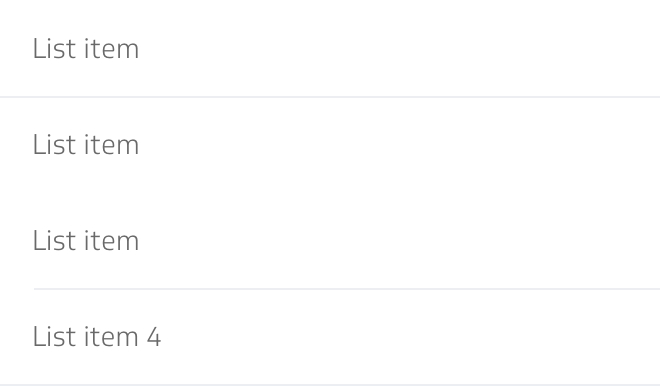
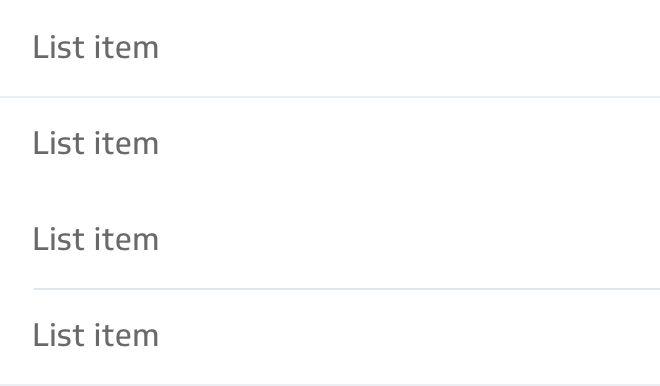
toolkit-v2 divider component created

diff --git a/src/assets/examples/index.ts b/src/assets/examples/index.ts
@@ -39,6 +39,7 @@ import {
   VizFileUploadModule
 } from 'libs';
 
+import { DividerOverviewComponent } from './divider-overview/divider-overview.component';
 import { DatepickerDateClassComponent } from './datepicker-date-class/datepicker-date-class.component';
 import {
   DatepickerCustomHeaderComponent,
@@ -296,7 +297,6 @@ import {
   LoginOktaComponent,
   LoginOktaData
 } from './login-okta/login-okta.component';
-import { DividerComponent, DividerData } from './divider/divider.component';
 import {
   IconographyComponent,
   IconographyData
@@ -626,6 +626,9 @@ import {
   MatSelectModule
 } from '@angular/material';
 export const ALL_EXAMPLE_ITEMS = {
+  'divider-overview': {
+    component: DividerOverviewComponent
+  },
   'datepicker-date-class': {
     component: DatepickerDateClassComponent
   },
@@ -965,10 +968,6 @@ export const ALL_EXAMPLE_ITEMS = {
     component: LoginOktaComponent,
     data: LoginOktaData
   },
-  divider: {
-    component: DividerComponent,
-    data: DividerData
-  },
   iconography: {
     component: IconographyComponent,
     data: IconographyData
@@ -1297,6 +1296,7 @@ export const ALL_EXAMPLE_ITEMS = {
 // console.log(Object.keys(VizModules).join(','));
 @NgModule({
   declarations: [
+    DividerOverviewComponent,
     ExampleHeader,
     DatepickerDateClassComponent,
     DatepickerCustomHeaderComponent,
@@ -1401,7 +1401,6 @@ export const ALL_EXAMPLE_ITEMS = {
     FormFieldPrefixSuffixComponent,
     FormFieldClearButtonComponent,
     LoginOktaComponent,
-    DividerComponent,
     IconographyComponent,
     FormFieldValidationComponent,
     DatePickerSingleErrorComponent,
@@ -1530,6 +1529,7 @@ export const ALL_EXAMPLE_ITEMS = {
   ],
   providers: [],
   entryComponents: [
+    DividerOverviewComponent,
     ExampleHeader,
     DatepickerDateClassComponent,
     DatepickerCustomHeaderComponent,
@@ -1634,7 +1634,6 @@ export const ALL_EXAMPLE_ITEMS = {
     FormFieldPrefixSuffixComponent,
     FormFieldClearButtonComponent,
     LoginOktaComponent,
-    DividerComponent,
     IconographyComponent,
     FormFieldValidationComponent,
     DatePickerSingleErrorComponent,

diff --git a/src/assets/documents/components/divider.html b/src/assets/documents/components/divider.html
@@ -24,7 +24,7 @@
       A divider is a thin line that groups content in lists and layouts.
     </div>
     <div class="doc-example-container">
-      <div app-docs-example="divider"></div>
+      <div app-docs-example="divider-overview"></div>
     </div>
     <div class="doc-divider"></div>
     <div class="doc-title-2">
@@ -33,12 +33,12 @@
         <span header-link="props"></span>Props</span
       >
     </div>
+
     <div class="doc-desc-2">
-      To get a customized badge, just set
-      <span class="doc-desc-2-highlight"
-        >color/matBadgeHidden/matBadgeOverlap/matBadgePosition/matBadgeSize</span
-      >
+      To get a customized divider, just set
+      <span class="doc-desc-2-highlight">inset / vertical</span>
     </div>
+
     <table class="doc-props-table">
       <thead>
         <tr>
@@ -53,40 +53,17 @@
           <td>inset</td>
           <td>Whether the divider is an inset divider.</td>
           <td>boolean</td>
-          <td>false</td>
+          <td></td>
         </tr>
+
         <tr>
           <td>vertical</td>
           <td>Whether the divider is vertically aligned.</td>
           <td>boolean</td>
-          <td>false</td>
+          <td></td>
         </tr>
       </tbody>
     </table>
-    <div class="doc-divider"></div>
-    <div class="doc-title-2">
-      Best Practices
-      <span class="docs-markdown-h3" id="best_practices">
-        <span header-link="best_practices"></span>Best Practices</span
-      >
-    </div>
-
-    <div class="doc-desc-2">
-      <p>Dividers separate content into clear groups.</p>
-      <ul class="doc-list">
-        <li>
-          Subtle: Dividers should be noticeable in a layout, but not jarring.
-        </li>
-        <li>
-          Secondary: Dividers should only be used if elements cannot be
-          separated using white space.
-        </li>
-        <li>
-          Infrequent: Use dividers sparingly, to create groupings rather than
-          separate items.
-        </li>
-      </ul>
-    </div>
 
     <div class="doc-divider"></div>
 

diff --git a/src/assets/examples/divider-overview/divider-overview.example.html b/src/assets/examples/divider-overview/divider-overview.example.html
@@ -1,5 +1,4 @@
-<span class="hljs-tag">&lt;<span class="hljs-name">mat-list</span> <span class="hljs-attr">class</span>=<span class="hljs-string">"example-wrapper"</span>&gt;</span>
-  <span class="hljs-tag">&lt;<span class="hljs-name">mat-divider</span>&gt;</span><span class="hljs-tag">&lt;/<span class="hljs-name">mat-divider</span>&gt;</span>
+<span class="hljs-tag">&lt;<span class="hljs-name">mat-list</span>&gt;</span>
   <span class="hljs-tag">&lt;<span class="hljs-name">mat-list-item</span>&gt;</span>List item<span class="hljs-tag">&lt;/<span class="hljs-name">mat-list-item</span>&gt;</span>
   <span class="hljs-tag">&lt;<span class="hljs-name">mat-divider</span>&gt;</span><span class="hljs-tag">&lt;/<span class="hljs-name">mat-divider</span>&gt;</span>
   <span class="hljs-tag">&lt;<span class="hljs-name">mat-list-item</span>&gt;</span>List item<span class="hljs-tag">&lt;/<span class="hljs-name">mat-list-item</span>&gt;</span>
@@ -7,5 +6,4 @@
   <span class="hljs-tag">&lt;<span class="hljs-name">mat-list-item</span>&gt;</span>List item<span class="hljs-tag">&lt;/<span class="hljs-name">mat-list-item</span>&gt;</span>
   <span class="hljs-tag">&lt;<span class="hljs-name">mat-divider</span>&gt;</span><span class="hljs-tag">&lt;/<span class="hljs-name">mat-divider</span>&gt;</span>
   <span class="hljs-tag">&lt;<span class="hljs-name">mat-list-item</span>&gt;</span>List item<span class="hljs-tag">&lt;/<span class="hljs-name">mat-list-item</span>&gt;</span>
-  <span class="hljs-tag">&lt;<span class="hljs-name">mat-divider</span>&gt;</span><span class="hljs-tag">&lt;/<span class="hljs-name">mat-divider</span>&gt;</span>
 <span class="hljs-tag">&lt;/<span class="hljs-name">mat-list</span>&gt;</span>

diff --git a/src/assets/examples/divider-overview/divider-overview.component.spec.ts b/src/assets/examples/divider-overview/divider-overview.component.spec.ts
@@ -1,0 +1,24 @@
+import { async, ComponentFixture, TestBed } from '@angular/core/testing';
+
+import { DividerOverviewComponentComponent } from './divider-overview.component';
+
+describe('DividerOverviewComponentComponent', () => {
+  let component: DividerOverviewComponentComponent;
+  let fixture: ComponentFixture<DividerOverviewComponentComponent>;
+
+  beforeEach(async(() => {
+    TestBed.configureTestingModule({
+      declarations: [DividerOverviewComponentComponent]
+    }).compileComponents();
+  }));
+
+  beforeEach(() => {
+    fixture = TestBed.createComponent(DividerOverviewComponentComponent);
+    component = fixture.componentInstance;
+    fixture.detectChanges();
+  });
+
+  it('should create', () => {
+    expect(component).toBeTruthy();
+  });
+});

diff --git a/src/assets/examples/divider-overview/divider-overview.example.ts.html b/src/assets/examples/divider-overview/divider-overview.example.ts.html
@@ -1,0 +1,11 @@
+<span class="hljs-keyword">import</span> {Component} <span class="hljs-keyword">from</span> <span class="hljs-string">'@angular/core'</span>;
+
+<span class="hljs-comment">/**
+ * @title Basic divider
+ */</span>
+@Component({
+  selector: <span class="hljs-string">'divider-overview'</span>,
+  templateUrl: <span class="hljs-string">'divider-overview.component.html'</span>,
+  styleUrls: [<span class="hljs-string">'divider-overview.component.css'</span>],
+})
+<span class="hljs-keyword">export</span> <span class="hljs-class"><span class="hljs-keyword">class</span> <span class="hljs-title">DividerOverviewComponent</span> {}</span>

diff --git a/src/app/shared/documentation-items/documentation-items.ts b/src/app/shared/documentation-items/documentation-items.ts
@@ -21,6 +21,7 @@ const DOCS: {[key: string]: DocCategory[]} = {
       id: 'buttons&indicators',
       name: 'Buttons & Indicators',
       items: [
+        {id: 'divideroverview', name: 'DividerOverview', examples: ['divider-overview']},
         {id: 'datepickerdateclass', name: 'DatepickerDateClass', examples: ['datepicker-date-class']},
         {id: 'datepickercustomheader', name: 'DatepickerCustomHeader', examples: ['datepicker-custom-header']},
         {id: 'datepickercolor', name: 'DatepickerColor', examples: ['datepicker-color']},

diff --git a/src/assets/examples/divider-overview/divider-overview.component.html b/src/assets/examples/divider-overview/divider-overview.component.html
@@ -1,5 +1,4 @@
-<mat-list class="example-wrapper">
-  <mat-divider></mat-divider>
+<mat-list>
   <mat-list-item>List item</mat-list-item>
   <mat-divider></mat-divider>
   <mat-list-item>List item</mat-list-item>
@@ -7,5 +6,4 @@
   <mat-list-item>List item</mat-list-item>
   <mat-divider></mat-divider>
   <mat-list-item>List item</mat-list-item>
-  <mat-divider></mat-divider>
 </mat-list>

diff --git a/src/app/shared/sketch-link/sketch-link.ts b/src/app/shared/sketch-link/sketch-link.ts
@@ -108,7 +108,7 @@ const sketch_link = {
     'Insert / Toolkit Material Library / ✱ / Icon / (Select desired icon)'
   ],
   divider: [
-    'Insert / Toolkit Material Library / ✱ / Divider'
+    'Insert / Toolkit Material Library / Components / Divider'
   ],
   buttontoggle: [
     'Insert / Toolkit Material Library / Components / Button Toggle / 3 Toggles / Icon or Text',

diff --git a/src/assets/examples/divider-overview/divider-overview.component.ts b/src/assets/examples/divider-overview/divider-overview.component.ts
@@ -1,0 +1,11 @@
+import {Component} from '@angular/core';
+
+/**
+ * @title Basic divider
+ */
+@Component({
+  selector: 'divider-overview',
+  templateUrl: 'divider-overview.component.html',
+  styleUrls: ['divider-overview.component.css'],
+})
+export class DividerOverviewComponent {}

diff --git a/src/assets/examples/divider-overview/divider-overview.example.css.html b/src/assets/examples/divider-overview/divider-overview.example.css.html
@@ -1,0 +1,4 @@
+<span class="hljs-selector-class">.mat-list</span> {
+  <span class="hljs-attribute">width</span>: <span class="hljs-number">330px</span>;
+  <span class="hljs-attribute">margin</span>: <span class="hljs-number">0</span> auto;
+}

diff --git a/libs/style.scss b/libs/style.scss
@@ -284,9 +284,7 @@ td.mat-cell,
     }
   }
 }
-.mat-divider {
-  border-top-color: rgba(215, 221, 229, 0.5) !important;
-}
+
 //snackbar style
 
 

diff --git a/src/assets/examples/divider-overview/divider-overview.component.css b/src/assets/examples/divider-overview/divider-overview.component.css
@@ -1,0 +1,4 @@
+.mat-list {
+  width: 330px;
+  margin: 0 auto;
+}
